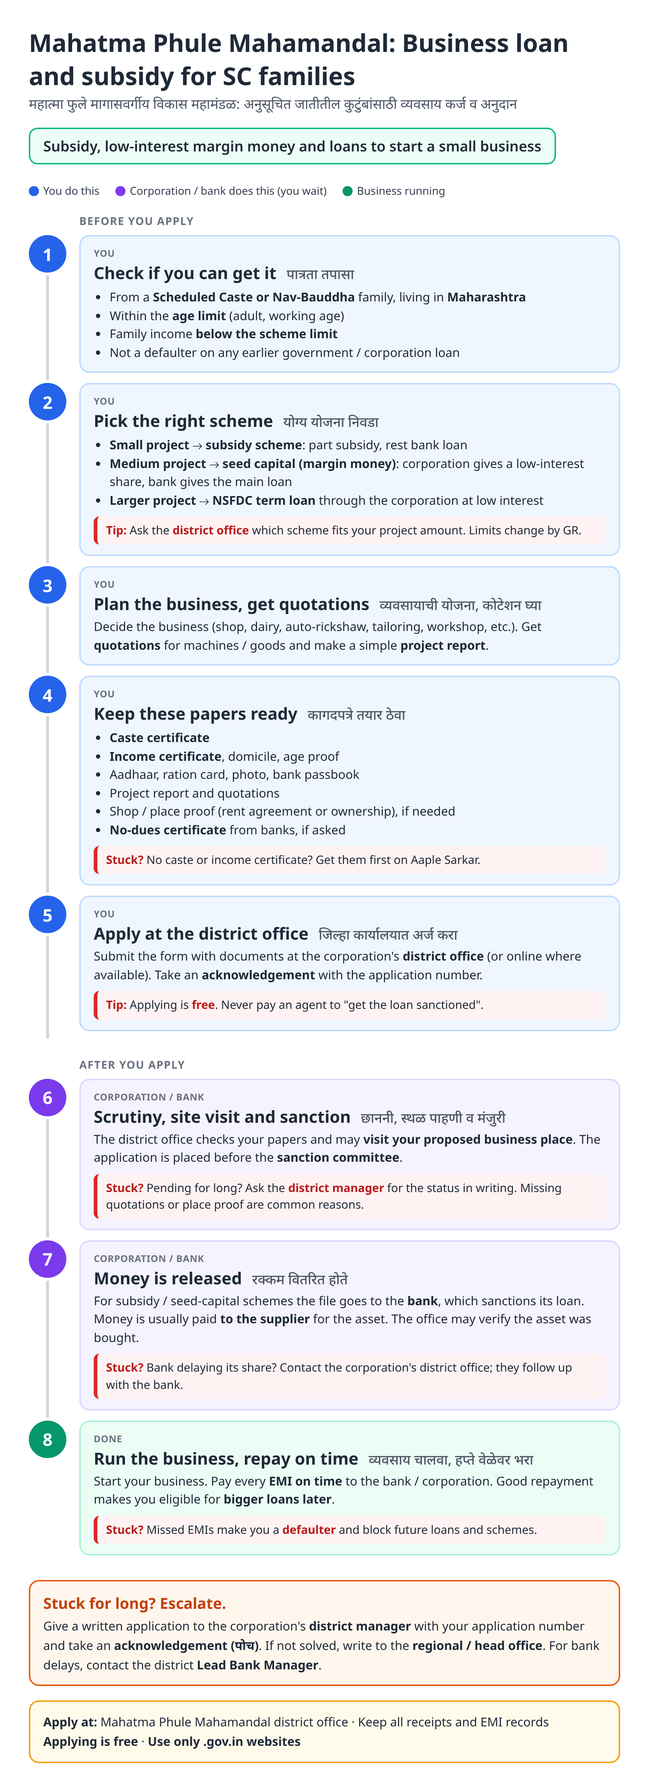
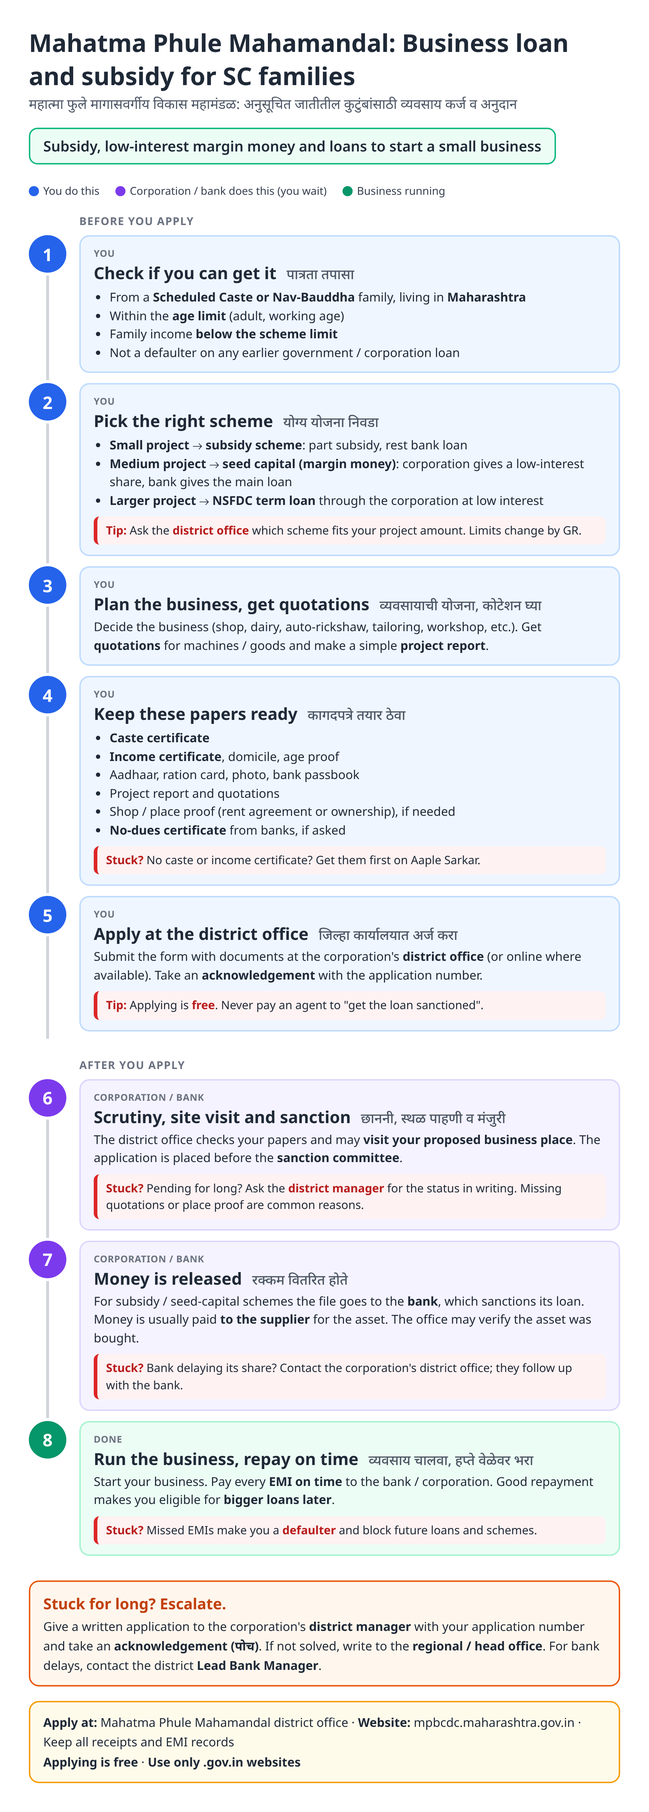
Verify batch 3 guides and apply corrections
Domicile: residence requirement is 15 years, not 10.
PMAY-G: Sept 2024 relaxed exclusion criteria.
SGNY / Shravanbal: confirmed amounts and income limits.
Ujjwala: ₹300 subsidy, free first refill and stove.
Income certificate: self-declaration tip softened.
PM-KISAN, MahaDBT, Mahatma Phule: findings recorded.

Claude-Session: https://claude.ai/code/session_01DHsCyWmbgmnicfdMBb55Ki

diff --git a/docs/workflows/domicile-certificate-guide-mr.html b/docs/workflows/domicile-certificate-guide-mr.html
@@ -36,11 +36,11 @@
   <div class="benefit">राज्य कोट्यातील महाविद्यालय प्रवेश, राज्य सरकारी नोकरी आणि शिष्यवृत्तीसाठी आवश्यक</div>
   <div class="legend"><span><span class="dot" style="background:#2563eb"></span>हे तुम्ही करायचे</span><span><span class="dot" style="background:#7c3aed"></span>हे सरकार करते (तुम्ही वाट पाहा)</span><span><span class="dot" style="background:#059669"></span>प्रमाणपत्र तयार</span></div>
   <div class="phase">अर्ज करण्यापूर्वी</div>
-  <div class="step you"><div class="rail"><div class="num">1</div><div class="line"></div></div><div class="card"><div class="who">तुम्ही</div><div class="title">पात्रता तपासा</div><div class="body">याचे अधिकृत नाव <b>वय, राष्ट्रीयत्व व अधिवास प्रमाणपत्र</b> आहे. तुम्ही <b>किमान 10 वर्षे महाराष्ट्रात राहत</b> असाल तर अर्ज करू शकता. मुलांसाठी पालकांचा रहिवास पुरावा वापरता येतो.</div><div class="stuck"><b>सूचना:</b> प्रवेशाच्या काळात (CET, NEET, JEE) खूप गर्दी असते. प्रवेश अर्ज सुरू होण्या<b>पूर्वीच</b> अर्ज करा.</div></div></div>
-  <div class="step you"><div class="rail"><div class="num">2</div><div class="line"></div></div><div class="card"><div class="who">तुम्ही</div><div class="title">कागदपत्रे तयार ठेवा</div><div class="body"><ul><li><b>वयाचा पुरावा:</b> जन्म दाखला किंवा शाळा सोडल्याचा दाखला</li><li><b>ओळखीचा पुरावा:</b> आधार / पॅन / मतदार ओळखपत्र</li><li><b>10 वर्षांच्या रहिवासाचा पुरावा:</b> रेशन कार्ड, वीज बिले, मालमत्ता कर पावत्या, शाळेचे बोनाफाईड प्रमाणपत्र, 7/12 यापैकी कोणतेही</li><li>स्वयंघोषणापत्र, फोटो</li></ul></div><div class="stuck"><b>अडचण?</b> काही वर्षांचा पुरावा नाही? कागदपत्रे एकत्र करा: प्रत्येक शाळेचे बोनाफाईड, जुनी वीज बिले, भाडेकरार किंवा मालमत्ता कर पावत्या मिळून 10 वर्षे पूर्ण होऊ शकतात.</div></div></div>
+  <div class="step you"><div class="rail"><div class="num">1</div><div class="line"></div></div><div class="card"><div class="who">तुम्ही</div><div class="title">पात्रता तपासा</div><div class="body">याचे अधिकृत नाव <b>वय, राष्ट्रीयत्व व अधिवास प्रमाणपत्र</b> आहे. तुम्ही <b>किमान 15 वर्षे महाराष्ट्रात राहत</b> असाल तर अर्ज करू शकता. इतर मार्ग: पालक दीर्घकाळ रहिवासी असणे, किंवा महाराष्ट्रातील रहिवाशाशी विवाह.</div><div class="stuck"><b>सूचना:</b> प्रवेशाच्या काळात (CET, NEET, JEE) खूप गर्दी असते. प्रवेश अर्ज सुरू होण्या<b>पूर्वीच</b> अर्ज करा.</div></div></div>
+  <div class="step you"><div class="rail"><div class="num">2</div><div class="line"></div></div><div class="card"><div class="who">तुम्ही</div><div class="title">कागदपत्रे तयार ठेवा</div><div class="body"><ul><li><b>वयाचा पुरावा:</b> जन्म दाखला किंवा शाळा सोडल्याचा दाखला</li><li><b>ओळखीचा पुरावा:</b> आधार / पॅन / मतदार ओळखपत्र</li><li><b>15 वर्षांच्या रहिवासाचा पुरावा:</b> रेशन कार्ड, वीज बिले, मालमत्ता कर पावत्या, शाळेचे बोनाफाईड प्रमाणपत्र, 7/12 यापैकी कोणतेही</li><li>स्वयंघोषणापत्र, फोटो</li></ul></div><div class="stuck"><b>अडचण?</b> काही वर्षांचा पुरावा नाही? कागदपत्रे एकत्र करा: प्रत्येक शाळेचे बोनाफाईड, जुनी वीज बिले, भाडेकरार किंवा मालमत्ता कर पावत्या मिळून 15 वर्षे पूर्ण होऊ शकतात.</div></div></div>
   <div class="step you"><div class="rail"><div class="num">3</div><div class="line"></div></div><div class="card"><div class="who">तुम्ही</div><div class="title">अर्ज करा</div><div class="body">यापैकी कोणताही एक मार्ग:<ul><li><b>aaplesarkar.mahaonline.gov.in</b> → महसूल विभाग → वय, राष्ट्रीयत्व व अधिवास प्रमाणपत्र</li><li>जवळचे <b>आपले सरकार सेवा केंद्र</b> / महा ई-सेवा केंद्र</li></ul>थोडी फी भरा. तुमचा <b>अर्ज क्रमांक</b> आणि दाखवलेली <b>कालमर्यादा (दिवस)</b> लिहून ठेवा.</div><div class="stuck"><b>सूचना:</b> फक्त ठरलेली फी भरा आणि पावती घ्या. एजंटला जास्त पैसे देऊ नका.</div></div></div>
   <div class="phase">अर्ज केल्यानंतर</div>
-  <div class="step gov"><div class="rail"><div class="num">4</div><div class="line"></div></div><div class="card"><div class="who">सरकार</div><div class="title">कागदपत्रांची तपासणी</div><div class="body">तहसील कार्यालय तुमचा वयाचा पुरावा आणि रहिवासाचे कागद 10 वर्षे पूर्ण करतात का ते तपासते.</div><div class="stuck"><b>अडचण?</b> अर्ज <b>परत पाठवला</b> (Sent back) असे दिसले? बहुतेक वेळा रहिवासाच्या वर्षांत खंड असतो किंवा स्कॅन अस्पष्ट असतो. राहिलेल्या वर्षाचा पुरावा अपलोड करून पुन्हा सादर करा. <b>कार्यालयात जाण्याची गरज नाही.</b></div></div></div>
+  <div class="step gov"><div class="rail"><div class="num">4</div><div class="line"></div></div><div class="card"><div class="who">सरकार</div><div class="title">कागदपत्रांची तपासणी</div><div class="body">तहसील कार्यालय तुमचा वयाचा पुरावा आणि रहिवासाचे कागद 15 वर्षे पूर्ण करतात का ते तपासते.</div><div class="stuck"><b>अडचण?</b> अर्ज <b>परत पाठवला</b> (Sent back) असे दिसले? बहुतेक वेळा रहिवासाच्या वर्षांत खंड असतो किंवा स्कॅन अस्पष्ट असतो. राहिलेल्या वर्षाचा पुरावा अपलोड करून पुन्हा सादर करा. <b>कार्यालयात जाण्याची गरज नाही.</b></div></div></div>
   <div class="step gov"><div class="rail"><div class="num">5</div><div class="line"></div></div><div class="card"><div class="who">सरकार</div><div class="title">तहसीलदारांची मंजुरी</div><div class="body">तहसीलदार मंजुरी देऊन <b>डिजिटल सही</b> करतात.</div></div></div>
   <div class="step done"><div class="rail"><div class="num">6</div></div><div class="card"><div class="who">पूर्ण</div><div class="title">प्रमाणपत्र डाउनलोड करा</div><div class="body">आपले सरकार वर लॉगिन करून डाउनलोड करा. त्यावर <b>डिजिटल सही</b> असल्याने ते शिक्क्याशिवाय वैध आहे आणि सहसा त्याची <b>मुदत संपत नाही</b>.</div><div class="stuck"><b>सूचना:</b> काही प्रिंट आणि फोनमध्ये PDF ठेवा. प्रत्येक प्रवेश फेरीत महाविद्यालये ते मागतात.</div></div></div>
   <div class="rights"><div class="t">उशीर झाला? हा तुमचा हक्क आहे.</div>कालमर्यादा संपली असेल तर <b>महाराष्ट्र लोकसेवा हक्क अधिनियम, 2015</b> नुसार अर्ज क्रमांक वापरून आपले सरकार वर <b>प्रथम अपील</b> करता येते.</div>

diff --git a/docs/workflows/sanjay-gandhi-guide-mr.html b/docs/workflows/sanjay-gandhi-guide-mr.html
@@ -33,10 +33,10 @@
 </head>
 <body><div id="page">
   <h1>संजय गांधी निराधार अनुदान योजना: निराधारांना दरमहा अनुदान</h1>
-  <div class="benefit">दरमहा आर्थिक मदत (सुमारे ₹1,500) थेट तुमच्या बँक खात्यात</div>
+  <div class="benefit">दरमहा ₹1,500 (दिव्यांगांना ₹2,500) थेट तुमच्या बँक खात्यात</div>
   <div class="legend"><span><span class="dot" style="background:#2563eb"></span>हे तुम्ही करायचे</span><span><span class="dot" style="background:#7c3aed"></span>हे सरकार करते (तुम्ही वाट पाहा)</span><span><span class="dot" style="background:#059669"></span>पैसे मिळाले</span></div>
   <div class="phase">अर्ज करण्यापूर्वी</div>
-  <div class="step you"><div class="rail"><div class="num">1</div><div class="line"></div></div><div class="card"><div class="who">तुम्ही</div><div class="title">पात्रता तपासा</div><div class="body">तुमचे वय <b>65 पेक्षा कमी</b> असेल, अनेक वर्षांपासून महाराष्ट्रात राहत असाल, कौटुंबिक उत्पन्न खूप कमी असेल, आणि तुम्ही:<ul><li><b>विधवा</b>, घटस्फोटित किंवा परित्यक्ता महिला</li><li><b>दिव्यांग</b> व्यक्ती (40% किंवा जास्त)</li><li><b>गंभीर आजाराने</b> ग्रस्त (उदा. क्षयरोग, कर्करोग, एचआयव्ही, कुष्ठरोग)</li><li><b>अनाथ मूल</b>, तृतीयपंथी, किंवा इतर निराधार प्रवर्ग</li></ul>असाल तर पात्र ठरू शकता.</div><div class="stuck"><b>सूचना:</b> वय <b>65 किंवा जास्त</b>? त्याऐवजी <b>श्रावणबाळ</b> / वृद्धापकाळ निवृत्तिवेतन योजनेबद्दल विचारा.</div></div></div>
+  <div class="step you"><div class="rail"><div class="num">1</div><div class="line"></div></div><div class="card"><div class="who">तुम्ही</div><div class="title">पात्रता तपासा</div><div class="body">तुमचे वय <b>65 पेक्षा कमी</b> असेल, अनेक वर्षांपासून महाराष्ट्रात राहत असाल, कौटुंबिक उत्पन्न <b>वर्षाला ₹21,000 पर्यंत</b> (दिव्यांगांसाठी ₹50,000) असेल किंवा BPL यादीत असाल, आणि तुम्ही:<ul><li><b>विधवा</b>, घटस्फोटित किंवा परित्यक्ता महिला</li><li><b>दिव्यांग</b> व्यक्ती (40% किंवा जास्त)</li><li><b>गंभीर आजाराने</b> ग्रस्त (उदा. क्षयरोग, कर्करोग, एचआयव्ही, कुष्ठरोग)</li><li><b>अनाथ मूल</b>, तृतीयपंथी, किंवा इतर निराधार प्रवर्ग</li></ul>असाल तर पात्र ठरू शकता.</div><div class="stuck"><b>सूचना:</b> वय <b>65 किंवा जास्त</b>? त्याऐवजी <b>श्रावणबाळ</b> / वृद्धापकाळ निवृत्तिवेतन योजनेबद्दल विचारा.</div></div></div>
   <div class="step you"><div class="rail"><div class="num">2</div><div class="line"></div></div><div class="card"><div class="who">तुम्ही</div><div class="title">कागदपत्रे तयार ठेवा</div><div class="body"><ul><li>आधार, फोटो, रेशन कार्ड</li><li><b>वयाचा पुरावा</b> आणि <b>रहिवासाचा पुरावा</b></li><li>तहसीलदारांचा <b>उत्पन्नाचा दाखला</b></li><li>प्रवर्गाचा पुरावा: पतीचा <b>मृत्यू दाखला</b> (विधवा), <b>दिव्यांग प्रमाणपत्र / UDID</b>, किंवा सरकारी रुग्णालयाचे <b>वैद्यकीय प्रमाणपत्र</b></li><li><b>आधारशी लिंक</b> असलेल्या बँक खात्याचे पासबुक</li></ul></div><div class="stuck"><b>अडचण?</b> उत्पन्नाचा दाखला नाही? आधी आपले सरकार वरून काढा. दिव्यांग प्रमाणपत्र नाही? सरकारी (जिल्हा) रुग्णालयातून मिळवा.</div></div></div>
   <div class="step you"><div class="rail"><div class="num">3</div><div class="line"></div></div><div class="card"><div class="who">तुम्ही</div><div class="title">अर्ज करा (मोफत)</div><div class="body">यापैकी कोणताही एक मार्ग:<ul><li><b>आपले सरकार</b> पोर्टल / सेवा केंद्र</li><li>तुमच्या <b>तहसील कार्यालयातील संजय गांधी योजना शाखा</b>, किंवा तलाठ्यांची मदत घ्या</li></ul>तुमचा <b>अर्ज क्रमांक</b> लिहून ठेवा आणि <b>पोच</b> जपून ठेवा.</div><div class="stuck"><b>सूचना:</b> अर्ज करणे <b>मोफत</b> आहे. "मंजूर करून देण्यासाठी" एजंटला पैसे देऊ नका.</div></div></div>
   <div class="phase">अर्ज केल्यानंतर</div>

diff --git a/docs/workflows/domicile-certificate-guide.html b/docs/workflows/domicile-certificate-guide.html
@@ -37,11 +37,11 @@
   <div class="benefit">Needed for state-quota college admission, state jobs and scholarships</div>
   <div class="legend"><span><span class="dot" style="background:#2563eb"></span>You do this</span><span><span class="dot" style="background:#7c3aed"></span>Government does this (you wait)</span><span><span class="dot" style="background:#059669"></span>Certificate ready</span></div>
   <div class="phase">Before you apply</div>
-  <div class="step you"><div class="rail"><div class="num">1</div><div class="line"></div></div><div class="card"><div class="who">You</div><div class="title">Check if you can get it <span class="mr">पात्रता तपासा</span></div><div class="body">The official name is <b>Age, Nationality and Domicile Certificate</b>. You can apply if you have been <b>living in Maharashtra for at least 10 years</b>. For a child, the parent's residence can be used.</div><div class="stuck"><b>Tip:</b> Admission seasons (CET, NEET, JEE) bring a rush. Apply <b>before</b> admission forms open.</div></div></div>
-  <div class="step you"><div class="rail"><div class="num">2</div><div class="line"></div></div><div class="card"><div class="who">You</div><div class="title">Keep these papers ready <span class="mr">कागदपत्रे तयार ठेवा</span></div><div class="body"><ul><li><b>Age proof:</b> birth certificate or school leaving certificate</li><li><b>Identity:</b> Aadhaar / PAN / Voter ID</li><li><b>10 years of residence:</b> any mix of ration card, electricity bills, property tax receipts, school bonafide certificates, 7/12</li><li>Self-declaration, photo</li></ul></div><div class="stuck"><b>Stuck?</b> Missing some years? Combine documents: school bonafide certificates for each school, old electricity bills, rent agreement or property tax receipts together can cover 10 years.</div></div></div>
+  <div class="step you"><div class="rail"><div class="num">1</div><div class="line"></div></div><div class="card"><div class="who">You</div><div class="title">Check if you can get it <span class="mr">पात्रता तपासा</span></div><div class="body">The official name is <b>Age, Nationality and Domicile Certificate</b>. You can apply if you have been <b>living in Maharashtra for at least 15 years</b>. Other routes: a parent who is a long-term resident, or marriage to a Maharashtra resident.</div><div class="stuck"><b>Tip:</b> Admission seasons (CET, NEET, JEE) bring a rush. Apply <b>before</b> admission forms open.</div></div></div>
+  <div class="step you"><div class="rail"><div class="num">2</div><div class="line"></div></div><div class="card"><div class="who">You</div><div class="title">Keep these papers ready <span class="mr">कागदपत्रे तयार ठेवा</span></div><div class="body"><ul><li><b>Age proof:</b> birth certificate or school leaving certificate</li><li><b>Identity:</b> Aadhaar / PAN / Voter ID</li><li><b>15 years of residence:</b> any mix of ration card, electricity bills, property tax receipts, school bonafide certificates, 7/12</li><li>Self-declaration, photo</li></ul></div><div class="stuck"><b>Stuck?</b> Missing some years? Combine documents: school bonafide certificates for each school, old electricity bills, rent agreement or property tax receipts together can cover 15 years.</div></div></div>
   <div class="step you"><div class="rail"><div class="num">3</div><div class="line"></div></div><div class="card"><div class="who">You</div><div class="title">Apply <span class="mr">अर्ज करा</span></div><div class="body">Choose any one:<ul><li><b>aaplesarkar.mahaonline.gov.in</b> → Revenue Department → Age, Nationality and Domicile Certificate</li><li>Nearest <b>Aaple Sarkar Seva Kendra</b> / Maha e-Seva Kendra</li></ul>Pay the small fee. Note your <b>Application ID</b> and the <b>time limit (days)</b> shown.</div><div class="stuck"><b>Tip:</b> Pay only the fixed fee and take a receipt. Never pay an agent extra.</div></div></div>
   <div class="phase">After you apply</div>
-  <div class="step gov"><div class="rail"><div class="num">4</div><div class="line"></div></div><div class="card"><div class="who">Government</div><div class="title">Your papers are checked <span class="mr">कागदपत्रांची तपासणी</span></div><div class="body">The Tahsil office checks your age proof and that your residence documents cover 10 years.</div><div class="stuck"><b>Stuck?</b> Status says <b>sent back</b>? Usually a gap in residence years or an unclear scan. Upload the missing year's proof and resubmit. <b>No visit needed.</b></div></div></div>
+  <div class="step gov"><div class="rail"><div class="num">4</div><div class="line"></div></div><div class="card"><div class="who">Government</div><div class="title">Your papers are checked <span class="mr">कागदपत्रांची तपासणी</span></div><div class="body">The Tahsil office checks your age proof and that your residence documents cover 15 years.</div><div class="stuck"><b>Stuck?</b> Status says <b>sent back</b>? Usually a gap in residence years or an unclear scan. Upload the missing year's proof and resubmit. <b>No visit needed.</b></div></div></div>
   <div class="step gov"><div class="rail"><div class="num">5</div><div class="line"></div></div><div class="card"><div class="who">Government</div><div class="title">Tahsildar approves <span class="mr">तहसीलदारांची मंजुरी</span></div><div class="body">The Tahsildar approves and <b>signs digitally</b>.</div></div></div>
   <div class="step done"><div class="rail"><div class="num">6</div></div><div class="card"><div class="who">Done</div><div class="title">Download your certificate <span class="mr">प्रमाणपत्र डाउनलोड करा</span></div><div class="body">Log in to Aaple Sarkar and download it. It is <b>digitally signed</b>, valid without any stamp, and usually <b>does not expire</b>.</div><div class="stuck"><b>Tip:</b> Keep a few printouts and a PDF on your phone. Colleges ask for it at every admission round.</div></div></div>
   <div class="rights"><div class="t">Late? It's your right.</div>If the time limit has passed, you can file a <b>First Appeal</b> on Aaple Sarkar with your Application ID, under the <b>Maharashtra Right to Public Services Act, 2015</b>.</div>

diff --git a/docs/workflows/shravanbal-guide-mr.html b/docs/workflows/shravanbal-guide-mr.html
@@ -33,10 +33,10 @@
 </head>
 <body><div id="page">
   <h1>श्रावणबाळ योजना: ज्येष्ठ नागरिकांना दरमहा निवृत्तिवेतन</h1>
-  <div class="benefit">65 वर्षांवरील ज्येष्ठांना दरमहा निवृत्तिवेतन (सुमारे ₹1,500), थेट बँक खात्यात</div>
+  <div class="benefit">65 वर्षांवरील ज्येष्ठांना दरमहा ₹1,500 निवृत्तिवेतन, थेट बँक खात्यात</div>
   <div class="legend"><span><span class="dot" style="background:#2563eb"></span>हे तुम्ही / कुटुंबीय करायचे</span><span><span class="dot" style="background:#7c3aed"></span>हे सरकार करते (तुम्ही वाट पाहा)</span><span><span class="dot" style="background:#059669"></span>निवृत्तिवेतन मिळाले</span></div>
   <div class="phase">अर्ज करण्यापूर्वी</div>
-  <div class="step you"><div class="rail"><div class="num">1</div><div class="line"></div></div><div class="card"><div class="who">तुम्ही / कुटुंबीय</div><div class="title">पात्रता तपासा</div><div class="body"><ul><li>वय <b>65 किंवा जास्त</b></li><li>अनेक वर्षांपासून <b>महाराष्ट्रात</b> राहत असलेले</li><li><b>कौटुंबिक उत्पन्न खूप कमी</b> आणि नियमित आधार नाही</li></ul>दोन गट आहेत: <b>दारिद्र्यरेषेखालील (BPL) यादीतील</b> कुटुंबे (राज्य + केंद्र निवृत्तिवेतन एकत्र) आणि <b>BPL यादीत नसलेली</b> कुटुंबे (राज्य निवृत्तिवेतन).</div><div class="stuck"><b>सूचना:</b> वय 65 पेक्षा कमी आणि विधवा, दिव्यांग किंवा गंभीर आजारी? त्याऐवजी <b>संजय गांधी निराधार अनुदान योजना</b> पाहा.</div></div></div>
+  <div class="step you"><div class="rail"><div class="num">1</div><div class="line"></div></div><div class="card"><div class="who">तुम्ही / कुटुंबीय</div><div class="title">पात्रता तपासा</div><div class="body"><ul><li>वय <b>65 किंवा जास्त</b></li><li>अनेक वर्षांपासून <b>महाराष्ट्रात</b> राहत असलेले</li><li>कौटुंबिक उत्पन्न <b>वर्षाला ₹21,000 पर्यंत</b>, किंवा BPL यादीत</li></ul>दोन गट आहेत: <b>दारिद्र्यरेषेखालील (BPL) यादीतील</b> कुटुंबे (राज्य + केंद्र निवृत्तिवेतन एकत्र) आणि <b>BPL यादीत नसलेली</b> कुटुंबे (राज्य निवृत्तिवेतन).</div><div class="stuck"><b>सूचना:</b> वय 65 पेक्षा कमी आणि विधवा, दिव्यांग किंवा गंभीर आजारी? त्याऐवजी <b>संजय गांधी निराधार अनुदान योजना</b> पाहा.</div></div></div>
   <div class="step you"><div class="rail"><div class="num">2</div><div class="line"></div></div><div class="card"><div class="who">तुम्ही / कुटुंबीय</div><div class="title">कागदपत्रे तयार ठेवा</div><div class="body"><ul><li><b>वयाचा पुरावा</b>: शाळा सोडल्याचा दाखला, जन्म दाखला, मतदार ओळखपत्र, किंवा सरकारी डॉक्टरांचे वयाचे प्रमाणपत्र</li><li><b>रहिवासाचा पुरावा</b></li><li>तहसीलदारांचा <b>उत्पन्नाचा दाखला</b></li><li>BPL यादीत असल्यास <b>BPL कार्ड / यादीचा उतारा</b></li><li>आधार, फोटो, बँक पासबुक (खाते <b>आधारशी लिंक</b>)</li></ul></div><div class="stuck"><b>अडचण?</b> जन्म किंवा शाळेचा दाखला नाही? <b>सरकारी डॉक्टरांचे वयाचे प्रमाणपत्र</b> सहसा चालते.</div></div></div>
   <div class="step you"><div class="rail"><div class="num">3</div><div class="line"></div></div><div class="card"><div class="who">तुम्ही / कुटुंबीय</div><div class="title">अर्ज करा (मोफत)</div><div class="body">यापैकी कोणताही एक मार्ग:<ul><li><b>आपले सरकार</b> पोर्टल / सेवा केंद्र</li><li>तुमच्या <b>तहसील कार्यालयातील संजय गांधी योजना शाखा</b>, किंवा तलाठ्यांची मदत घ्या</li></ul>ज्येष्ठ व्यक्तीच्या वतीने कुटुंबीय अर्ज करू शकतात. <b>अर्ज क्रमांक</b> लिहून ठेवा.</div><div class="stuck"><b>सूचना:</b> अर्ज करणे <b>मोफत</b> आहे. "मंजूर करून देण्यासाठी" एजंटला पैसे देऊ नका.</div></div></div>
   <div class="phase">अर्ज केल्यानंतर</div>

diff --git a/docs/workflows/income-certificate-guide-mr.html b/docs/workflows/income-certificate-guide-mr.html
@@ -37,7 +37,7 @@
   <div class="legend"><span><span class="dot" style="background:#2563eb"></span>हे तुम्ही करायचे</span><span><span class="dot" style="background:#7c3aed"></span>हे सरकार करते (तुम्ही वाट पाहा)</span><span><span class="dot" style="background:#059669"></span>दाखला तयार</span></div>
   <div class="phase">अर्ज करण्यापूर्वी</div>
   <div class="step you"><div class="rail"><div class="num">1</div><div class="line"></div></div><div class="card"><div class="who">तुम्ही</div><div class="title">कोणता दाखला हवा ते तपासा</div><div class="body">ज्या योजनेसाठी किंवा कार्यालयासाठी दाखला हवा आहे तिथे विचारा: <b>किती वर्षांचे उत्पन्न</b> (1 वर्ष की 3 वर्षे) आणि <b>कोणाच्या नावाने</b> (तुमच्या की पालकांच्या). बहुतेक योजनांना <b>चालू आर्थिक वर्षाचा</b> दाखला लागतो.</div><div class="stuck"><b>अडचण?</b> मागील वर्षाचा दाखला आहे? बहुतेक योजना तो स्वीकारत नाहीत. लवकर नवीन अर्ज करा.</div></div></div>
-  <div class="step you"><div class="rail"><div class="num">2</div><div class="line"></div></div><div class="card"><div class="who">तुम्ही</div><div class="title">कागदपत्रे तयार ठेवा</div><div class="body"><ul><li><b>ओळखीचा पुरावा:</b> आधार / पॅन / मतदार ओळखपत्र</li><li><b>पत्त्याचा पुरावा:</b> रेशन कार्ड / वीज बिल</li><li><b>उत्पन्नाचा पुरावा:</b> नोकरी → फॉर्म 16 किंवा पगार पत्रक · शेतकरी → 7/12 व 8-अ उतारा · इतर → स्वयंघोषणापत्र</li><li>पासपोर्ट आकाराचा फोटो</li></ul></div><div class="stuck"><b>सूचना:</b> स्टॅम्प पेपरवरील प्रतिज्ञापत्राची गरज नाही. सही केलेले <b>स्वयंघोषणापत्र</b> पुरेसे आहे.</div></div></div>
+  <div class="step you"><div class="rail"><div class="num">2</div><div class="line"></div></div><div class="card"><div class="who">तुम्ही</div><div class="title">कागदपत्रे तयार ठेवा</div><div class="body"><ul><li><b>ओळखीचा पुरावा:</b> आधार / पॅन / मतदार ओळखपत्र</li><li><b>पत्त्याचा पुरावा:</b> रेशन कार्ड / वीज बिल</li><li><b>उत्पन्नाचा पुरावा:</b> नोकरी → फॉर्म 16 किंवा पगार पत्रक · शेतकरी → 7/12 व 8-अ उतारा · इतर → स्वयंघोषणापत्र</li><li>पासपोर्ट आकाराचा फोटो</li></ul></div><div class="stuck"><b>सूचना:</b> स्टॅम्प पेपरवरील प्रतिज्ञापत्राचा खर्च टाळण्यासाठी सही केलेले <b>स्वयंघोषणापत्र</b> चालते का ते सेवा केंद्रात विचारा.</div></div></div>
   <div class="step you"><div class="rail"><div class="num">3</div><div class="line"></div></div><div class="card"><div class="who">तुम्ही</div><div class="title">अर्ज करा</div><div class="body">यापैकी कोणताही एक मार्ग:<ul><li>वेबसाइट <b>aaplesarkar.mahaonline.gov.in</b> → महसूल विभाग → उत्पन्नाचा दाखला</li><li>जवळचे <b>आपले सरकार सेवा केंद्र</b> / महा ई-सेवा केंद्र</li></ul>थोडी फी भरा. तुमचा <b>अर्ज क्रमांक</b> (Application ID) आणि दाखवलेली <b>कालमर्यादा (दिवस)</b> लिहून ठेवा.</div><div class="stuck"><b>सूचना:</b> सेवा केंद्रात फक्त ठरलेली फी भरा आणि पावती घ्या. एजंटला जास्त पैसे देऊ नका.</div></div></div>
   <div class="phase">अर्ज केल्यानंतर</div>
   <div class="step gov"><div class="rail"><div class="num">4</div><div class="line"></div></div><div class="card"><div class="who">सरकार</div><div class="title">कागदपत्रांची तपासणी</div><div class="body">तहसील कार्यालय तुमचा अर्ज आणि कागदपत्रे तपासते.</div><div class="stuck"><b>अडचण?</b> अर्ज <b>परत पाठवला</b> (Sent back) असे दिसले? शेरा वाचा, राहिलेले कागदपत्र अपलोड करून ऑनलाइन पुन्हा सादर करा. <b>कार्यालयात जाण्याची गरज नाही.</b></div></div></div>

diff --git a/docs/workflows/ujjwala-guide-mr.html b/docs/workflows/ujjwala-guide-mr.html
@@ -43,7 +43,7 @@
   <div class="step gov"><div class="rail"><div class="num">4</div><div class="line"></div></div><div class="card"><div class="who">गॅस एजन्सी</div><div class="title">कागदपत्रे व कुटुंबाची तपासणी</div><div class="body">वितरक तुमचे <b>KYC</b> पूर्ण करतो आणि तुमच्या <b>कुटुंबात कोणाकडेही</b> आधीच गॅस जोडणी नाही ना हे तपासतो.</div><div class="stuck"><b>अडचण?</b> <b>"आधीच जोडणी आहे"</b> म्हणून नामंजूर? रेशन कार्डवरील कोणाकडे आधीच जोडणी असू शकते. जुनी जोडणी परत करा किंवा रेशन कार्ड दुरुस्त करा, मग पुन्हा अर्ज करा.</div></div></div>
   <div class="step gov"><div class="rail"><div class="num">5</div><div class="line"></div></div><div class="card"><div class="who">गॅस एजन्सी</div><div class="title">गॅस जोडणी बसवली जाते</div><div class="body">अनामत रकमेशिवाय <b>सिलिंडर, रेग्युलेटर, पाईप आणि पुस्तिका</b> मिळते. वितरक जोडणी बसवून <b>सुरक्षिततेचे नियम</b> दाखवतो.</div><div class="stuck"><b>सूचना:</b> <b>सुरक्षा प्रात्यक्षिक</b> मागा. पाईप आणि रेग्युलेटर नीट बसवले आहेत का ते तपासा.</div></div></div>
   <div class="step you"><div class="rail"><div class="num">6</div><div class="line"></div></div><div class="card"><div class="who">तुम्ही</div><div class="title">ई-केवायसी व बँक लिंक करा</div><div class="body">सांगितल्यावर वितरकाकडे किंवा गॅस कंपनीच्या ॲपवर <b>आधार ई-केवायसी</b> करा. अनुदान मिळण्यासाठी तुमचे बँक खाते <b>आधार-सीडेड</b> आहे याची खात्री करा.</div><div class="stuck"><b>अडचण?</b> अनुदान येत नाही? बहुतेक वेळा ई-केवायसी बाकी असते किंवा बँक आधार-सीडेड नसते. दोन्ही दुरुस्त करा.</div></div></div>
-  <div class="step done"><div class="rail"><div class="num">7</div></div><div class="card"><div class="who">पूर्ण</div><div class="title">गॅसवर स्वयंपाक, रिफिलवर अनुदान</div><div class="body">फोन / ॲपवरून रिफिल बुक करा. रिफिलवरील <b>अनुदान</b> तुमच्या बँक खात्यात येते (दरवर्षी ठराविक रिफिलपर्यंत).</div><div class="stuck"><b>सूचना:</b> तुम्ही पात्र असू शकता अशा <b>महाराष्ट्राच्या मोफत रिफिल योजनेबद्दल</b> वितरकाकडे विचारा.</div></div></div>
+  <div class="step done"><div class="rail"><div class="num">7</div></div><div class="card"><div class="who">पूर्ण</div><div class="title">गॅसवर स्वयंपाक, रिफिलवर अनुदान</div><div class="body">फोन / ॲपवरून रिफिल बुक करा. प्रति सिलिंडर <b>सुमारे ₹300 अनुदान</b> तुमच्या बँक खात्यात येते (दरवर्षी ठराविक रिफिलपर्यंत). उज्ज्वला 2.0 मध्ये <b>पहिला रिफिल आणि शेगडी</b> मोफत.</div><div class="stuck"><b>सूचना:</b> तुम्ही पात्र असू शकता अशा <b>महाराष्ट्राच्या मोफत रिफिल योजनेबद्दल</b> वितरकाकडे विचारा.</div></div></div>
   <div class="rights"><div class="t">एजन्सीबद्दल तक्रार? तक्रार करा.</div>आधी <b>वितरकाकडे</b> लेखी तक्रार द्या. निराकरण न झाल्यास गॅस कंपनीचे <b>ग्राहक तक्रार पोर्टल</b> किंवा <b>CPGRAMS</b> वापरा. <b>गॅस गळती आपत्कालीन क्रमांक: 1906.</b></div>
   <div class="help"><b>स्थिती तपासा:</b> pmuy.gov.in किंवा तुमच्या गॅस कंपनीची वेबसाइट / ॲप (अर्ज क्रमांक)<br><b>जोडणी मोफत आहे</b> · <b>फक्त अधिकृत वेबसाइट व ॲप वापरा</b></div>
 </div></body></html>

diff --git a/docs/workflows/pmay-gramin-guide-mr.html b/docs/workflows/pmay-gramin-guide-mr.html
@@ -37,7 +37,7 @@
   <div class="legend"><span><span class="dot" style="background:#2563eb"></span>हे तुम्ही करायचे</span><span><span class="dot" style="background:#7c3aed"></span>हे सरकार करते (तुम्ही वाट पाहा)</span><span><span class="dot" style="background:#059669"></span>घर पूर्ण</span></div>
   <div class="phase">निवड होणे</div>
   <div class="step you"><div class="rail"><div class="num">1</div><div class="line"></div></div><div class="card"><div class="who">तुम्ही</div><div class="title">तुमची योजना कोणती ते ओळखा</div><div class="body"><ul><li><b>गावात</b> राहता → <b>प्रधानमंत्री आवास योजना - ग्रामीण</b>. हे मार्गदर्शक त्यासाठी आहे.</li><li><b>शहरात</b> राहता → प्रधानमंत्री आवास योजना - शहरी 2.0. प्रक्रिया वेगळी आहे.</li></ul></div></div></div>
-  <div class="step you"><div class="rail"><div class="num">2</div><div class="line"></div></div><div class="card"><div class="who">तुम्ही</div><div class="title">पात्रता तपासा</div><div class="body">तुमच्या कुटुंबाकडे <b>पक्के घर नसेल</b> (कच्च्या किंवा मोडकळीस आलेल्या घरात राहता, किंवा बेघर आहात) तर लाभ मिळू शकतो.<br>कुटुंबात सरकारी कर्मचारी, आयकरदाता, तीन / चारचाकी वाहन असेल किंवा आधीच पक्के घर असेल तर सहसा <b>मिळत नाही</b>.</div></div></div>
+  <div class="step you"><div class="rail"><div class="num">2</div><div class="line"></div></div><div class="card"><div class="who">तुम्ही</div><div class="title">पात्रता तपासा</div><div class="body">तुमच्या कुटुंबाकडे <b>पक्के घर नसेल</b> (कच्च्या किंवा मोडकळीस आलेल्या घरात राहता, किंवा बेघर आहात) तर लाभ मिळू शकतो.<br>कुटुंबाकडे मोटार असलेले तीन / चारचाकी वाहन किंवा यांत्रिक शेती उपकरण, ₹50,000+ मर्यादेचे किसान क्रेडिट कार्ड, आयकर किंवा व्यवसाय कर भरणा, 2.5+ एकर बागायती जमीन, किंवा आधीच पक्के घर असेल तर सहसा <b>मिळत नाही</b>. दुचाकी, फ्रीज किंवा दरमहा ₹15,000 पर्यंत उत्पन्न असल्याने आता <b>अपात्र ठरत नाही</b>.</div></div></div>
   <div class="step you"><div class="rail"><div class="num">3</div><div class="line"></div></div><div class="card"><div class="who">तुम्ही</div><div class="title">यादीत नाव लावा</div><div class="body">निवड <b>आवास+ सर्वेक्षणातून</b> होते. तुमचे नाव यादीत आहे का, किंवा नवीन सर्वेक्षण / स्व-सर्वेक्षण (आवास+ ॲप) सुरू आहे का, हे <b>ग्रामसेवक / ग्रामपंचायतीत</b> विचारा.</div><div class="stuck"><b>अडचण?</b> यादीत नाव नाही? सर्वेक्षणात नाव घेण्यासाठी ग्रामसेवकांना विनंती करा. तुमच्या प्रवर्गासाठी <b>राज्याच्या घरकुल योजना</b> (उदा. रमाई, शबरी, मोदी आवास) बद्दलही विचारा.</div></div></div>
   <div class="step gov"><div class="rail"><div class="num">4</div><div class="line"></div></div><div class="card"><div class="who">सरकार</div><div class="title">ग्रामसभेत यादी तपासणी</div><div class="body"><b>ग्रामसभा</b> प्रतीक्षा यादी आणि तिचा प्राधान्यक्रम तपासते.</div><div class="stuck"><b>सूचना:</b> <b>ग्रामसभेला हजर राहा.</b> इथेच नावे निश्चित होतात किंवा त्यावर हरकत घेतली जाते.</div></div></div>
   <div class="phase">घर बांधणे</div>

diff --git a/docs/workflows/sanjay-gandhi-guide.html b/docs/workflows/sanjay-gandhi-guide.html
@@ -34,10 +34,10 @@
 <body><div id="page">
   <h1>Sanjay Gandhi Niradhar Yojana: Monthly support for those without support</h1>
   <div class="sub mr">संजय गांधी निराधार अनुदान योजना: निराधारांना दरमहा अनुदान</div>
-  <div class="benefit">Monthly financial support (about ₹1,500) paid into your bank account</div>
+  <div class="benefit">₹1,500 a month (₹2,500 for persons with disability) paid into your bank account</div>
   <div class="legend"><span><span class="dot" style="background:#2563eb"></span>You do this</span><span><span class="dot" style="background:#7c3aed"></span>Government does this (you wait)</span><span><span class="dot" style="background:#059669"></span>Money received</span></div>
   <div class="phase">Before you apply</div>
-  <div class="step you"><div class="rail"><div class="num">1</div><div class="line"></div></div><div class="card"><div class="who">You</div><div class="title">Check if you can get it <span class="mr">पात्रता तपासा</span></div><div class="body">You may be eligible if you are <b>below 65</b>, have lived in Maharashtra for many years, have very low family income, and are:<ul><li>A <b>widow</b>, divorced or abandoned woman</li><li>A person with <b>disability</b> (40% or more)</li><li>Suffering from a <b>serious illness</b> (e.g. TB, cancer, HIV, leprosy)</li><li>An <b>orphan child</b>, transgender person, or another destitute category</li></ul></div><div class="stuck"><b>Tip:</b> Aged <b>65 or more</b>? Ask about the <b>Shravanbal</b> / old-age pension schemes instead.</div></div></div>
+  <div class="step you"><div class="rail"><div class="num">1</div><div class="line"></div></div><div class="card"><div class="who">You</div><div class="title">Check if you can get it <span class="mr">पात्रता तपासा</span></div><div class="body">You may be eligible if you are <b>below 65</b>, have lived in Maharashtra for many years, your family income is <b>up to ₹21,000 a year</b> (₹50,000 for persons with disability) or you are on the BPL list, and you are:<ul><li>A <b>widow</b>, divorced or abandoned woman</li><li>A person with <b>disability</b> (40% or more)</li><li>Suffering from a <b>serious illness</b> (e.g. TB, cancer, HIV, leprosy)</li><li>An <b>orphan child</b>, transgender person, or another destitute category</li></ul></div><div class="stuck"><b>Tip:</b> Aged <b>65 or more</b>? Ask about the <b>Shravanbal</b> / old-age pension schemes instead.</div></div></div>
   <div class="step you"><div class="rail"><div class="num">2</div><div class="line"></div></div><div class="card"><div class="who">You</div><div class="title">Keep these papers ready <span class="mr">कागदपत्रे तयार ठेवा</span></div><div class="body"><ul><li>Aadhaar, photo, ration card</li><li><b>Age proof</b> and <b>residence proof</b></li><li><b>Income certificate</b> from the Tahsildar</li><li>Category proof: husband's <b>death certificate</b> (widow), <b>disability certificate / UDID</b>, or <b>medical certificate</b> from a government hospital</li><li>Bank passbook, account <b>linked to Aadhaar</b></li></ul></div><div class="stuck"><b>Stuck?</b> No income certificate? Get it first on Aaple Sarkar. No disability certificate? Get it from the government (civil) hospital.</div></div></div>
   <div class="step you"><div class="rail"><div class="num">3</div><div class="line"></div></div><div class="card"><div class="who">You</div><div class="title">Apply (it is free) <span class="mr">अर्ज करा (मोफत)</span></div><div class="body">Choose any one:<ul><li><b>Aaple Sarkar</b> portal / Seva Kendra</li><li><b>Sanjay Gandhi Yojana branch</b> at your <b>Tahsil office</b>, or ask your Talathi for help</li></ul>Note your <b>application number</b> and keep the <b>acknowledgement</b>.</div><div class="stuck"><b>Tip:</b> Applying is <b>free</b>. Never pay an agent to "get it sanctioned".</div></div></div>
   <div class="phase">After you apply</div>

diff --git a/docs/workflows/shravanbal-guide.html b/docs/workflows/shravanbal-guide.html
@@ -34,10 +34,10 @@
 <body><div id="page">
   <h1>Shravanbal Yojana: Monthly pension for senior citizens</h1>
   <div class="sub mr">श्रावणबाळ सेवा राज्य निवृत्तिवेतन योजना: ज्येष्ठ नागरिकांना दरमहा निवृत्तिवेतन</div>
-  <div class="benefit">Monthly pension (about ₹1,500) for elderly people aged 65+, paid into the bank</div>
+  <div class="benefit">₹1,500 monthly pension for elderly people aged 65+, paid into the bank</div>
   <div class="legend"><span><span class="dot" style="background:#2563eb"></span>You do this</span><span><span class="dot" style="background:#7c3aed"></span>Government does this (you wait)</span><span><span class="dot" style="background:#059669"></span>Pension received</span></div>
   <div class="phase">Before you apply</div>
-  <div class="step you"><div class="rail"><div class="num">1</div><div class="line"></div></div><div class="card"><div class="who">You / family</div><div class="title">Check if you can get it <span class="mr">पात्रता तपासा</span></div><div class="body"><ul><li>Aged <b>65 or more</b></li><li>Living in <b>Maharashtra</b> for many years</li><li><b>Very low family income</b> and no regular support</li></ul>There are two groups: families <b>on the BPL list</b> (state + central pension together) and families <b>not on the BPL list</b> (state pension).</div><div class="stuck"><b>Tip:</b> Below 65 and a widow, disabled or seriously ill? See <b>Sanjay Gandhi Niradhar Yojana</b> instead.</div></div></div>
+  <div class="step you"><div class="rail"><div class="num">1</div><div class="line"></div></div><div class="card"><div class="who">You / family</div><div class="title">Check if you can get it <span class="mr">पात्रता तपासा</span></div><div class="body"><ul><li>Aged <b>65 or more</b></li><li>Living in <b>Maharashtra</b> for many years</li><li>Family income <b>up to ₹21,000 a year</b>, or on the BPL list</li></ul>There are two groups: families <b>on the BPL list</b> (state + central pension together) and families <b>not on the BPL list</b> (state pension).</div><div class="stuck"><b>Tip:</b> Below 65 and a widow, disabled or seriously ill? See <b>Sanjay Gandhi Niradhar Yojana</b> instead.</div></div></div>
   <div class="step you"><div class="rail"><div class="num">2</div><div class="line"></div></div><div class="card"><div class="who">You / family</div><div class="title">Keep these papers ready <span class="mr">कागदपत्रे तयार ठेवा</span></div><div class="body"><ul><li><b>Age proof</b>: school leaving certificate, birth certificate, voter ID, or age certificate from a government doctor</li><li><b>Residence proof</b></li><li><b>Income certificate</b> from the Tahsildar</li><li><b>BPL card / list extract</b>, if on the BPL list</li><li>Aadhaar, photo, bank passbook (account <b>linked to Aadhaar</b>)</li></ul></div><div class="stuck"><b>Stuck?</b> No birth or school record? A <b>government doctor's age certificate</b> is usually accepted.</div></div></div>
   <div class="step you"><div class="rail"><div class="num">3</div><div class="line"></div></div><div class="card"><div class="who">You / family</div><div class="title">Apply (it is free) <span class="mr">अर्ज करा (मोफत)</span></div><div class="body">Choose any one:<ul><li><b>Aaple Sarkar</b> portal / Seva Kendra</li><li><b>Sanjay Gandhi Yojana branch</b> at your <b>Tahsil office</b>, or ask your Talathi for help</li></ul>A family member can apply on behalf of the elderly person. Note the <b>application number</b>.</div><div class="stuck"><b>Tip:</b> Applying is <b>free</b>. Never pay an agent to "get it sanctioned".</div></div></div>
   <div class="phase">After you apply</div>

diff --git a/docs/workflows/income-certificate-guide.html b/docs/workflows/income-certificate-guide.html
@@ -38,7 +38,7 @@
   <div class="legend"><span><span class="dot" style="background:#2563eb"></span>You do this</span><span><span class="dot" style="background:#7c3aed"></span>Government does this (you wait)</span><span><span class="dot" style="background:#059669"></span>Certificate ready</span></div>
   <div class="phase">Before you apply</div>
   <div class="step you"><div class="rail"><div class="num">1</div><div class="line"></div></div><div class="card"><div class="who">You</div><div class="title">Check which certificate you need <span class="mr">कोणता दाखला हवा ते तपासा</span></div><div class="body">Ask the scheme or office: <b>which year's income</b> (1 year or 3 years) and <b>in whose name</b> (yours or your parent's). Most schemes want a certificate from the <b>current financial year</b>.</div><div class="stuck"><b>Stuck?</b> Have last year's certificate? Most schemes reject it. Apply fresh, early.</div></div></div>
-  <div class="step you"><div class="rail"><div class="num">2</div><div class="line"></div></div><div class="card"><div class="who">You</div><div class="title">Keep these papers ready <span class="mr">कागदपत्रे तयार ठेवा</span></div><div class="body"><ul><li><b>Identity:</b> Aadhaar / PAN / Voter ID</li><li><b>Address:</b> Ration card / Electricity bill</li><li><b>Income:</b> Job → Form 16 or salary slip · Farmer → 7/12 and 8A · Others → self-declaration</li><li>Passport-size photo</li></ul></div><div class="stuck"><b>Tip:</b> No stamp-paper affidavit needed. A signed <b>self-declaration</b> is enough.</div></div></div>
+  <div class="step you"><div class="rail"><div class="num">2</div><div class="line"></div></div><div class="card"><div class="who">You</div><div class="title">Keep these papers ready <span class="mr">कागदपत्रे तयार ठेवा</span></div><div class="body"><ul><li><b>Identity:</b> Aadhaar / PAN / Voter ID</li><li><b>Address:</b> Ration card / Electricity bill</li><li><b>Income:</b> Job → Form 16 or salary slip · Farmer → 7/12 and 8A · Others → self-declaration</li><li>Passport-size photo</li></ul></div><div class="stuck"><b>Tip:</b> Ask at the Seva Kendra whether a signed <b>self-declaration</b> is accepted, so you can avoid paying for a stamp-paper affidavit.</div></div></div>
   <div class="step you"><div class="rail"><div class="num">3</div><div class="line"></div></div><div class="card"><div class="who">You</div><div class="title">Apply <span class="mr">अर्ज करा</span></div><div class="body">Choose any one:<ul><li>Website <b>aaplesarkar.mahaonline.gov.in</b> → Revenue Department → Income Certificate</li><li>Nearest <b>Aaple Sarkar Seva Kendra</b> / Maha e-Seva Kendra</li></ul>Pay the small fee. Note down your <b>Application ID</b> and the <b>time limit (days)</b> shown.</div><div class="stuck"><b>Tip:</b> At a Seva Kendra pay only the fixed fee and take a receipt. Never pay an agent extra.</div></div></div>
   <div class="phase">After you apply</div>
   <div class="step gov"><div class="rail"><div class="num">4</div><div class="line"></div></div><div class="card"><div class="who">Government</div><div class="title">Your papers are checked <span class="mr">कागदपत्रांची तपासणी</span></div><div class="body">The Tahsil office checks your form and documents.</div><div class="stuck"><b>Stuck?</b> Status says <b>sent back</b>? Read the remark, upload the missing paper and resubmit online. <b>No visit needed.</b></div></div></div>

diff --git a/docs/workflows/ujjwala-guide.html b/docs/workflows/ujjwala-guide.html
@@ -44,7 +44,7 @@
   <div class="step gov"><div class="rail"><div class="num">4</div><div class="line"></div></div><div class="card"><div class="who">Gas agency</div><div class="title">Papers and family are checked <span class="mr">कागदपत्रे व कुटुंबाची तपासणी</span></div><div class="body">The distributor completes your <b>KYC</b> and checks that <b>no one in your family</b> already has an LPG connection.</div><div class="stuck"><b>Stuck?</b> Rejected for <b>"existing connection"</b>? Someone on your ration card may already have one. Surrender the old connection or correct the ration card, then reapply.</div></div></div>
   <div class="step gov"><div class="rail"><div class="num">5</div><div class="line"></div></div><div class="card"><div class="who">Gas agency</div><div class="title">Connection is installed <span class="mr">गॅस जोडणी बसवली जाते</span></div><div class="body">You get the <b>cylinder, regulator, pipe and booklet</b> without deposit. The distributor installs it and shows you <b>safety steps</b>.</div><div class="stuck"><b>Tip:</b> Ask for the <b>safety demonstration</b>. Check the pipe and regulator are fitted properly.</div></div></div>
   <div class="step you"><div class="rail"><div class="num">6</div><div class="line"></div></div><div class="card"><div class="who">You</div><div class="title">Complete eKYC and bank link <span class="mr">ई-केवायसी व बँक लिंक करा</span></div><div class="body">Do <b>Aadhaar eKYC</b> at the distributor or on the gas company's app when asked. Make sure your bank account is <b>Aadhaar-seeded</b> so the subsidy reaches you.</div><div class="stuck"><b>Stuck?</b> Subsidy not coming? Usually eKYC is pending or the bank isn't Aadhaar-seeded. Fix both.</div></div></div>
-  <div class="step done"><div class="rail"><div class="num">7</div></div><div class="card"><div class="who">Done</div><div class="title">Cook on LPG, get refill subsidy <span class="mr">गॅसवर स्वयंपाक, रिफिलवर अनुदान</span></div><div class="body">Book refills by phone / app. The <b>subsidy</b> on refills comes into your bank account (up to a set number of refills each year).</div><div class="stuck"><b>Tip:</b> Ask your distributor about any <b>Maharashtra free-refill scheme</b> you may also be eligible for.</div></div></div>
+  <div class="step done"><div class="rail"><div class="num">7</div></div><div class="card"><div class="who">Done</div><div class="title">Cook on LPG, get refill subsidy <span class="mr">गॅसवर स्वयंपाक, रिफिलवर अनुदान</span></div><div class="body">Book refills by phone / app. A <b>subsidy of about ₹300 per cylinder</b> comes into your bank account (up to a set number of refills each year). Under Ujjwala 2.0 the <b>first refill and stove</b> are free.</div><div class="stuck"><b>Tip:</b> Ask your distributor about any <b>Maharashtra free-refill scheme</b> you may also be eligible for.</div></div></div>
   <div class="rights"><div class="t">Problem with the agency? Complain.</div>First complain to the <b>distributor</b> in writing. If not solved, use the gas company's <b>customer grievance portal</b> or <b>CPGRAMS</b>. <b>Gas leak emergency: call 1906.</b></div>
   <div class="help"><b>Check status:</b> pmuy.gov.in or your gas company's website / app (application number)<br><b>Connection is free</b> · <b>Use only official websites and apps</b></div>
 </div></body></html>

diff --git a/docs/workflows/mahatma-phule-mahamandal-guide-mr.html b/docs/workflows/mahatma-phule-mahamandal-guide-mr.html
@@ -46,5 +46,5 @@
   <div class="step gov"><div class="rail"><div class="num">7</div><div class="line"></div></div><div class="card"><div class="who">महामंडळ / बँक</div><div class="title">रक्कम वितरित होते</div><div class="body">अनुदान / बीज भांडवल योजनांमध्ये प्रकरण <b>बँकेकडे</b> जाते आणि बँक कर्ज मंजूर करते. रक्कम सहसा मालमत्तेसाठी <b>पुरवठादाराला</b> दिली जाते. मालमत्ता खरेदी झाल्याची तपासणी होऊ शकते.</div><div class="stuck"><b>अडचण?</b> बँक आपला हिस्सा देण्यास उशीर करते? महामंडळाच्या जिल्हा कार्यालयाशी संपर्क करा; ते बँकेकडे पाठपुरावा करतात.</div></div></div>
   <div class="step done"><div class="rail"><div class="num">8</div></div><div class="card"><div class="who">पूर्ण</div><div class="title">व्यवसाय चालवा, हप्ते वेळेवर भरा</div><div class="body">व्यवसाय सुरू करा. बँक / महामंडळाचा प्रत्येक <b>हप्ता वेळेवर</b> भरा. चांगली परतफेड केल्यास पुढे <b>मोठे कर्ज</b> मिळू शकते.</div><div class="stuck"><b>अडचण?</b> हप्ते चुकल्यास तुम्ही <b>थकबाकीदार</b> ठरता आणि पुढील कर्जे व योजना बंद होतात.</div></div></div>
   <div class="rights"><div class="t">खूप दिवस अडकले? पाठपुरावा करा.</div>अर्ज क्रमांकासह महामंडळाच्या <b>जिल्हा व्यवस्थापकांना</b> लेखी अर्ज द्या आणि <b>पोच</b> घ्या. निराकरण न झाल्यास <b>प्रादेशिक / मुख्य कार्यालयाला</b> लिहा. बँकेच्या उशिरासाठी जिल्ह्याच्या <b>अग्रणी बँक व्यवस्थापकांशी</b> संपर्क करा.</div>
-  <div class="help"><b>अर्ज कुठे:</b> महात्मा फुले महामंडळ जिल्हा कार्यालय · सर्व पावत्या व हप्त्यांच्या नोंदी जपून ठेवा<br><b>अर्ज मोफत आहे</b> · <b>फक्त .gov.in वेबसाइट वापरा</b></div>
+  <div class="help"><b>अर्ज कुठे:</b> महात्मा फुले महामंडळ जिल्हा कार्यालय · <b>वेबसाइट:</b> mpbcdc.maharashtra.gov.in · सर्व पावत्या व हप्त्यांच्या नोंदी जपून ठेवा<br><b>अर्ज मोफत आहे</b> · <b>फक्त .gov.in वेबसाइट वापरा</b></div>
 </div></body></html>
